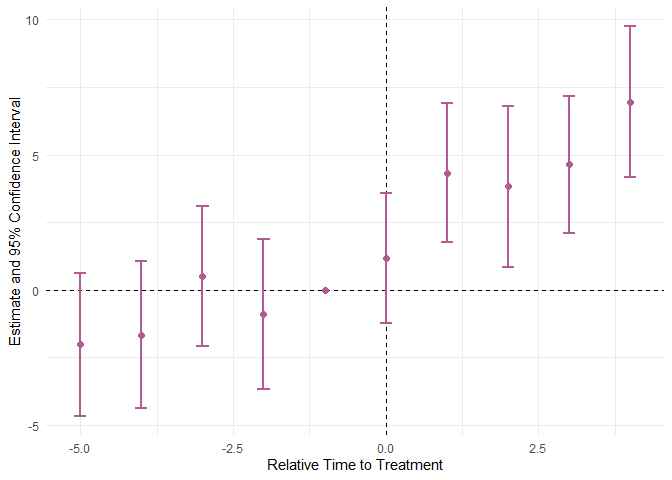
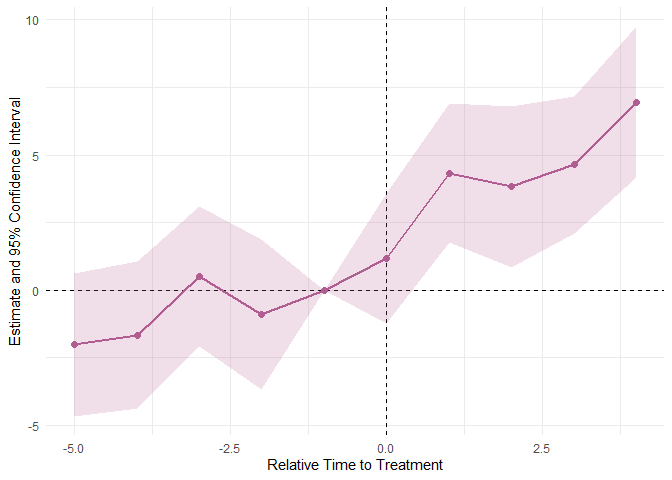
Update to 0.4.0

diff --git a/README.md b/README.md
@@ -97,9 +97,6 @@ directly with `run_es()`.
 # Load example data
 df1 <- fixest::base_did      # Basic DID example
 df2 <- fixest::base_stagg    # Staggered treatment example
-
-head(df1) |> 
-  knitr::kable()
 ```
 
 |          y |         x1 |  id | period | post | treat |
@@ -110,11 +107,6 @@ head(df1) |>
 |  3.7814749 | -2.8300587 |   1 |      4 |    0 |     1 |
 | -2.5581996 | -5.0443544 |   1 |      5 |    0 |     1 |
 |  1.7287324 | -0.6363849 |   1 |      6 |    1 |     1 |
-
-``` r
-head(df2) |> 
-  knitr::kable()
-```
 
 |  | id | year | year_treated | time_to_treatment | treated | treatment_effect_true | x1 | y |
 |:---|---:|---:|---:|---:|---:|---:|---:|---:|
@@ -273,19 +265,19 @@ created with `run_es()` and the plot will be complete.
 plot_es(event_study)
 ```
 
-![](README_files/figure-gfm/unnamed-chunk-5-1.png)<!-- -->
+![](README_files/figure-gfm/unnamed-chunk-6-1.png)<!-- -->
 
 ``` r
 plot_es(event_study, type = "errorbar")
 ```
 
-![](README_files/figure-gfm/unnamed-chunk-6-1.png)<!-- -->
+![](README_files/figure-gfm/unnamed-chunk-7-1.png)<!-- -->
 
 ``` r
 plot_es(event_study, type = "errorbar", vline_val = -.5)
 ```
 
-![](README_files/figure-gfm/unnamed-chunk-7-1.png)<!-- -->
+![](README_files/figure-gfm/unnamed-chunk-8-1.png)<!-- -->
 
 Since it is created on a `ggplot2` basis, it is possible to modify minor
 details.
@@ -296,7 +288,7 @@ plot_es(event_study, type = "errorbar") +
   ggplot2::ggtitle("Result of Event Study")
 ```
 
-![](README_files/figure-gfm/unnamed-chunk-8-1.png)<!-- -->
+![](README_files/figure-gfm/unnamed-chunk-9-1.png)<!-- -->
 
 ## Planned Features
 
